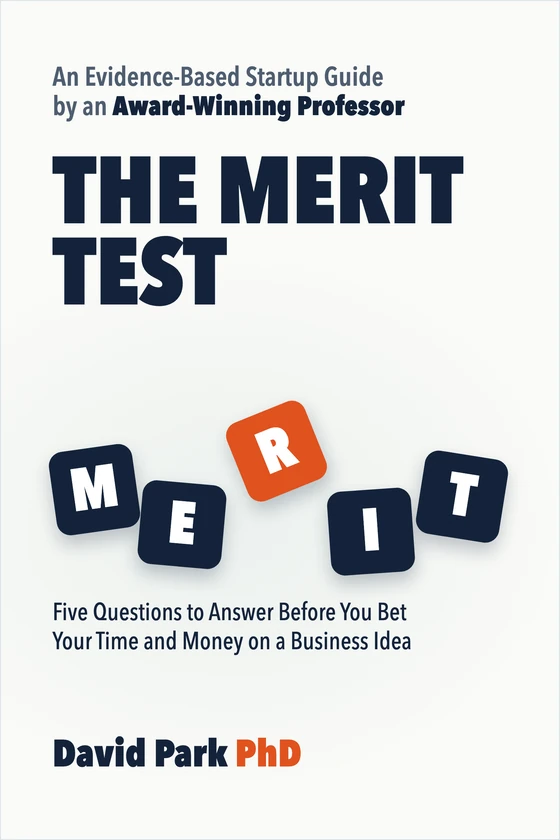
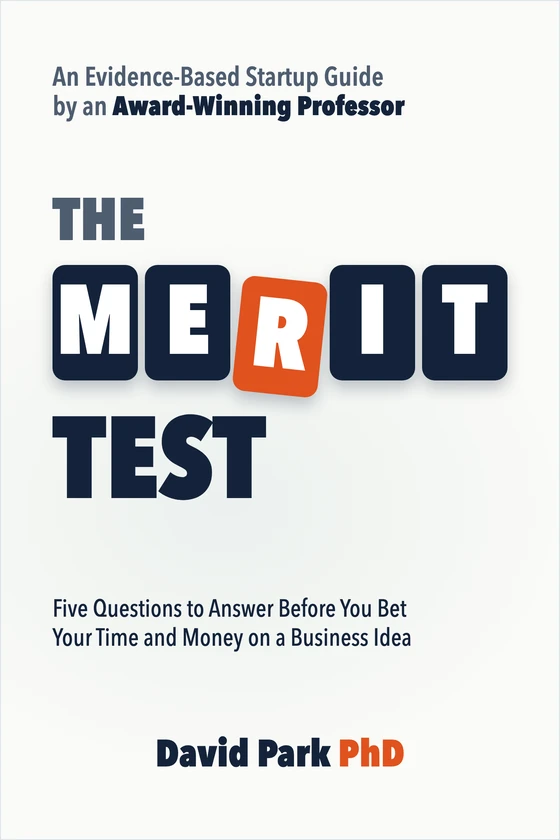
Book section: cover with MERIT spelled in large tiles

Changed region(s): [[0.0911, 0.1857, 0.9107, 0.7738], [0.0911, 0.8667, 0.7286, 0.9286]]

diff --git a/index.html b/index.html
@@ -143,7 +143,7 @@
  <!-- book: Huberman's book block -->
  <section id="book">
   <div class="offer book">
-   <img src="/images/the-merit-test-cover.webp" width="560" height="840" style="max-width:240px;height:auto" alt="Cover of The Merit Test by David Park PhD, an evidence-based startup guide. The word MERIT is spelled in five tumbling tiles, with the R tile in coral.">
+   <img src="/images/the-merit-test-cover.webp" width="560" height="840" style="max-width:240px;height:auto" alt="Cover of The Merit Test by David Park PhD, an evidence-based startup guide. The word MERIT is spelled in five large tiles, with the R tile in coral and slightly askew.">
    <div>
     <div class="kicker">Book, coming soon</div>
     <h2>The <span class="mark">Merit Test</span></h2>
